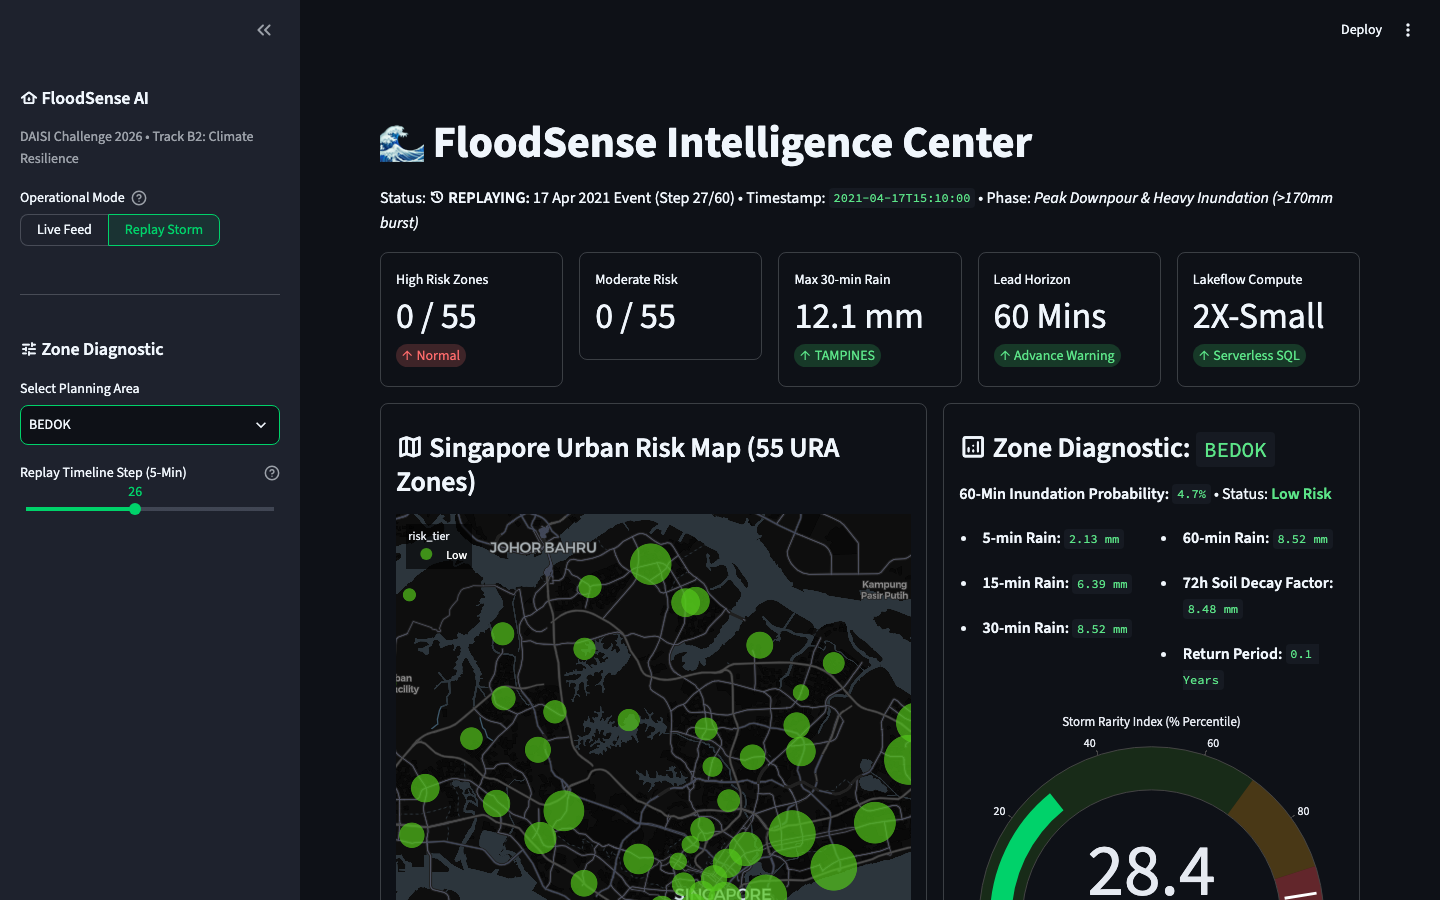
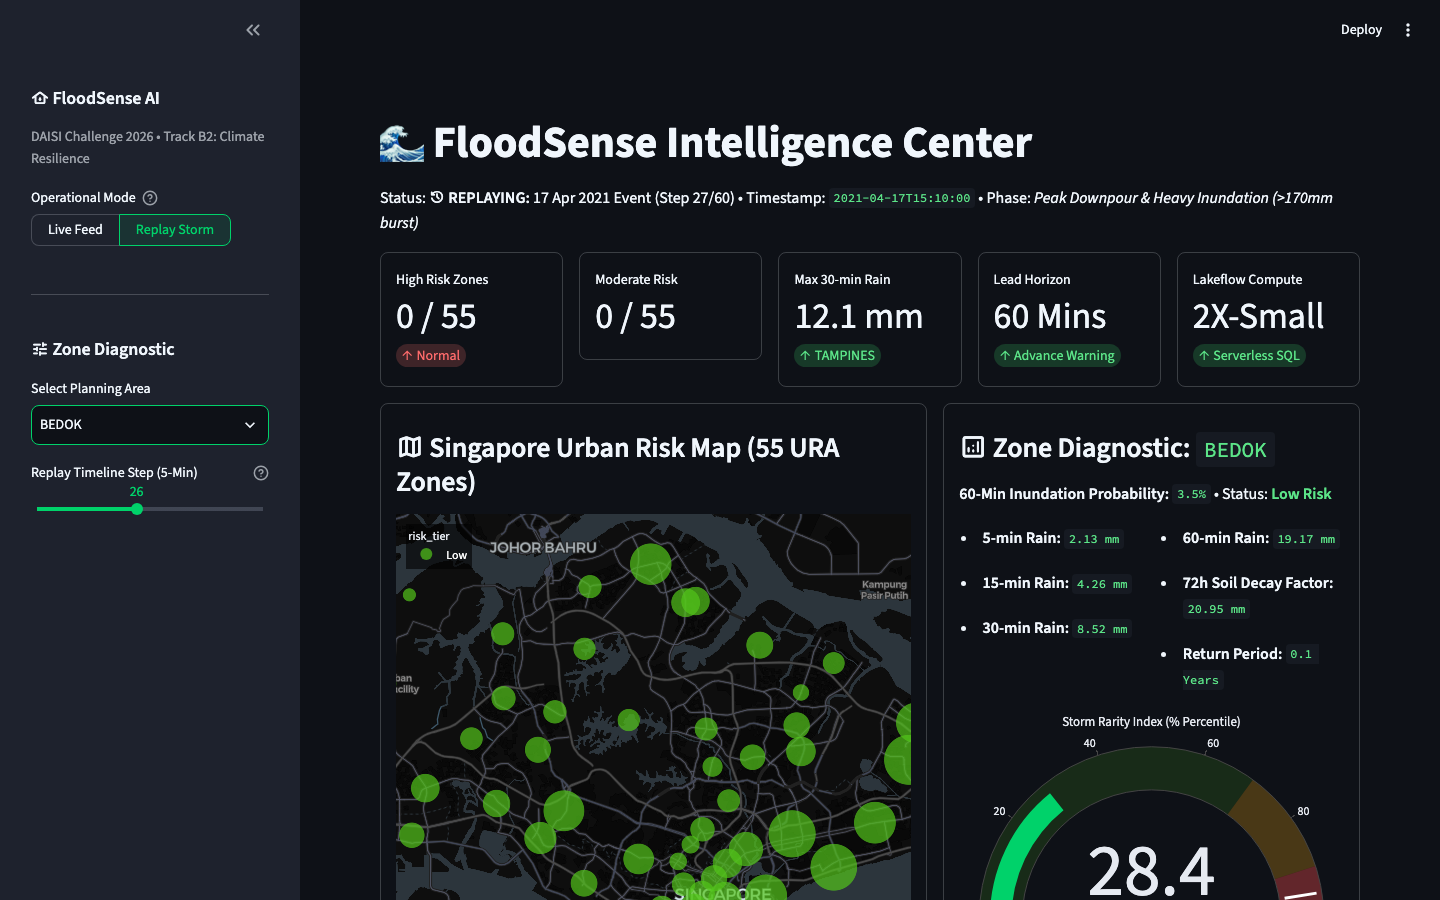
fix(app, spatial, tests): harden model loading, matrix operations, and extend browser tests

diff --git a/tests/test_browser_playwright.py b/tests/test_browser_playwright.py
@@ -58,6 +58,31 @@ def test_streamlit_browser_e2e():
         assert len(critical_errors) == 0, f"Encountered critical browser console errors: {critical_errors}"
 
 
+def test_streamlit_browser_responsive():
+    """Verify app renders cleanly on tablet/smaller viewports without layout crashes."""
+    with sync_playwright() as p:
+        browser = p.chromium.launch(headless=True)
+        context = browser.new_context(viewport={"width": 800, "height": 1000})
+        page = context.new_page()
+
+        console_errors = []
+        page.on("console", lambda msg: console_errors.append(msg.text) if msg.type == "error" else None)
+
+        page.goto("http://localhost:8501", timeout=30000)
+        expect(page).to_have_title("FloodSense | Urban Drainage Intelligence", timeout=15000)
+        page.wait_for_selector("text=FloodSense Intelligence Center", timeout=15000)
+        time.sleep(1)
+
+        # Confirm metrics rendered
+        metrics = page.locator("[data-testid='stMetricValue']").all()
+        assert len(metrics) >= 5
+
+        browser.close()
+        critical_errors = [e for e in console_errors if "favicon" not in e.lower() and "unhandled" in e.lower()]
+        assert len(critical_errors) == 0
+
+
 if __name__ == "__main__":
     test_streamlit_browser_e2e()
+    test_streamlit_browser_responsive()
     print("All Playwright E2E browser tests passed!")

diff --git a/tests/test_streamlit_app.py b/tests/test_streamlit_app.py
@@ -26,8 +26,15 @@ def test_streamlit_app_mode_toggle():
     at.run(timeout=15)
     assert not at.exception
 
-    if at.segmented_control:
+    seg = None
+    if hasattr(at, "segmented_control") and at.segmented_control:
         seg = at.segmented_control[0]
+    elif hasattr(at.sidebar, "button_group") and at.sidebar.button_group:
+        seg = at.sidebar.button_group[0]
+    elif hasattr(at, "button_group") and at.button_group:
+        seg = at.button_group[0]
+
+    if seg:
         # Switch to Live Feed
         seg.set_value("Live Feed")
         at.run(timeout=15)

diff --git a/src/app/streamlit_app.py b/src/app/streamlit_app.py
@@ -48,7 +48,12 @@ def load_resources():
     engine = IDWMatrixEngine()
     feat_pipe = FeaturePipeline()
     model_path = ROOT_DIR / "models" / "champion_model.joblib"
-    model = joblib.load(model_path) if model_path.exists() else None
+    model = None
+    if model_path.exists():
+        try:
+            model = joblib.load(model_path)
+        except Exception:
+            model = None
 
     # Load replay slice
     replay_file = ROOT_DIR / "data" / "replay" / "april_2021_storm.json"

diff --git a/src/spatial/idw_matrix.py b/src/spatial/idw_matrix.py
@@ -115,7 +115,8 @@ class IDWMatrixEngine:
         )
 
         # Matrix multiply: (num_stations,) @ (num_stations, num_zones) -> (num_zones,)
-        zone_rainfall_values = r_vec @ weights
+        with np.errstate(divide="ignore", over="ignore", invalid="ignore"):
+            zone_rainfall_values = r_vec @ weights
 
         results = []
         for j, z_name in enumerate(self.zone_names):
